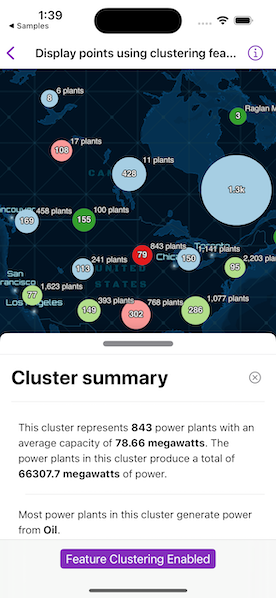
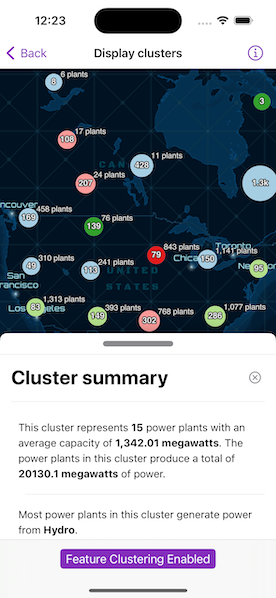
Update display clusters content.

diff --git a/Shared/Samples/Display points using clustering feature reduction/DisplayPointsUsingClusteringFeatureReductionView.swift b/Shared/Samples/Display points using clustering feature reduction/DisplayPointsUsingClusteringFeatureReductionView.swift
@@ -16,7 +16,7 @@ import ArcGIS
 import SwiftUI
 import ArcGISToolkit
 
-struct DisplayPointsUsingClusteringFeatureReductionView: View {
+struct DisplayClustersView: View {
     /// A map of global power plants.
     @State private var map = {
         let portalItem = PortalItem(
@@ -100,6 +100,6 @@ struct DisplayPointsUsingClusteringFeatureReductionView: View {
 
 #Preview {
     NavigationView {
-        DisplayPointsUsingClusteringFeatureReductionView()
+        DisplayClustersView()
     }
 }

diff --git a/Shared/Samples/Display points using clustering feature reduction/README.md b/Shared/Samples/Display points using clustering feature reduction/README.md
@@ -1,8 +1,8 @@
-# Display points using clustering feature reduction
+# Display clusters
 
 Display a web map with a point feature layer that has feature reduction enabled to aggregate points into clusters.
 
-![Image of display points using clustering feature reduction sample](display-points-using-clustering-feature-reduction.png)
+![Image of display clusters](display-clusters.png)
 
 ## Use case
 
